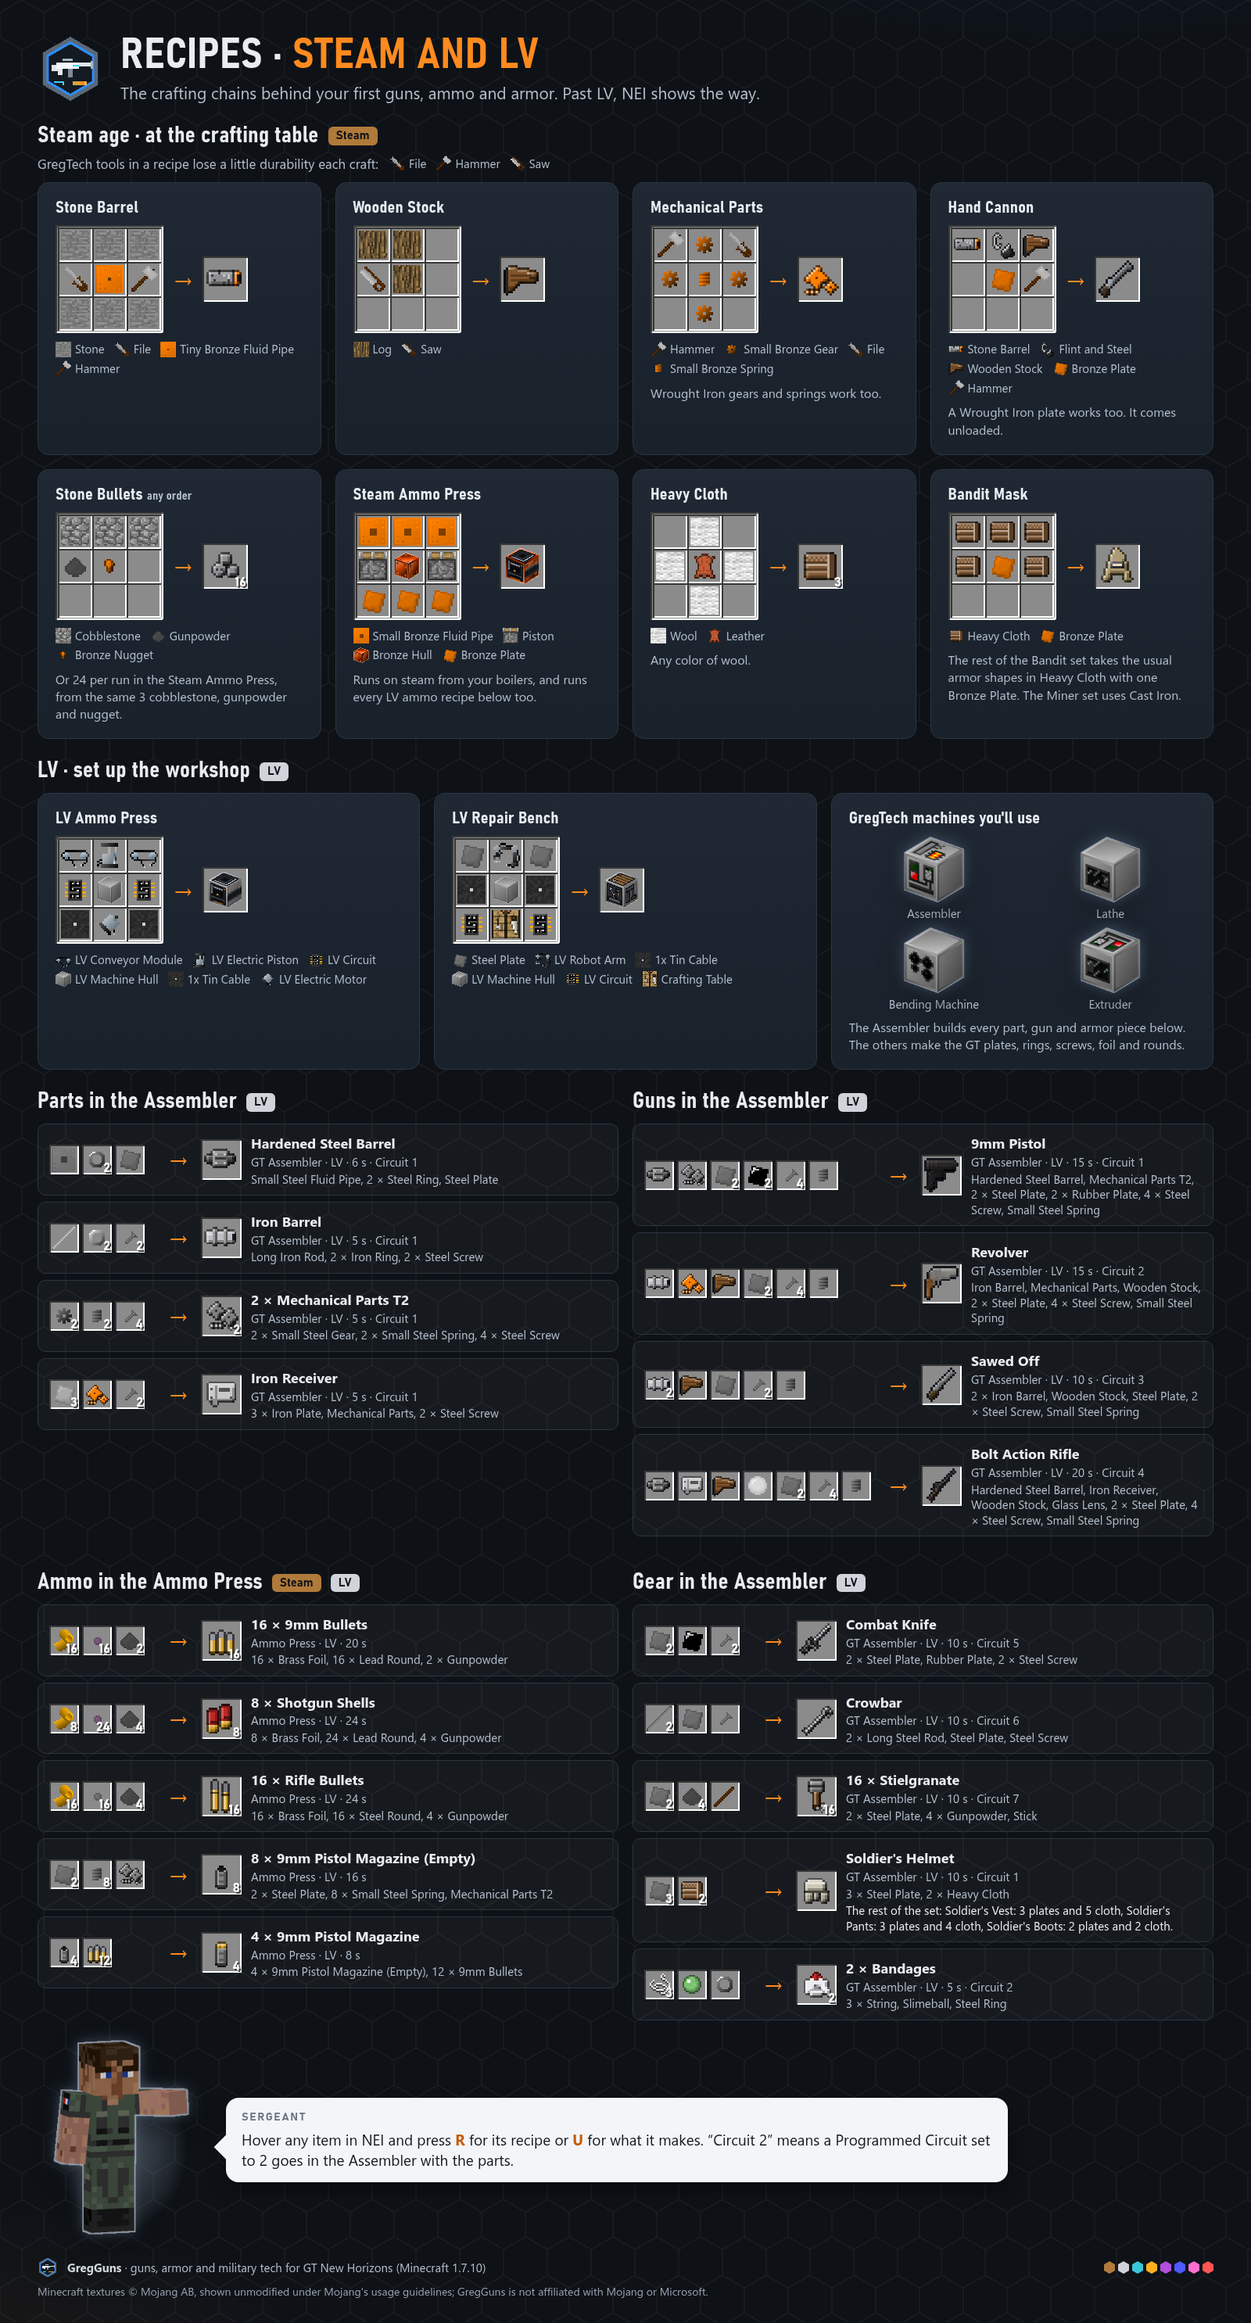
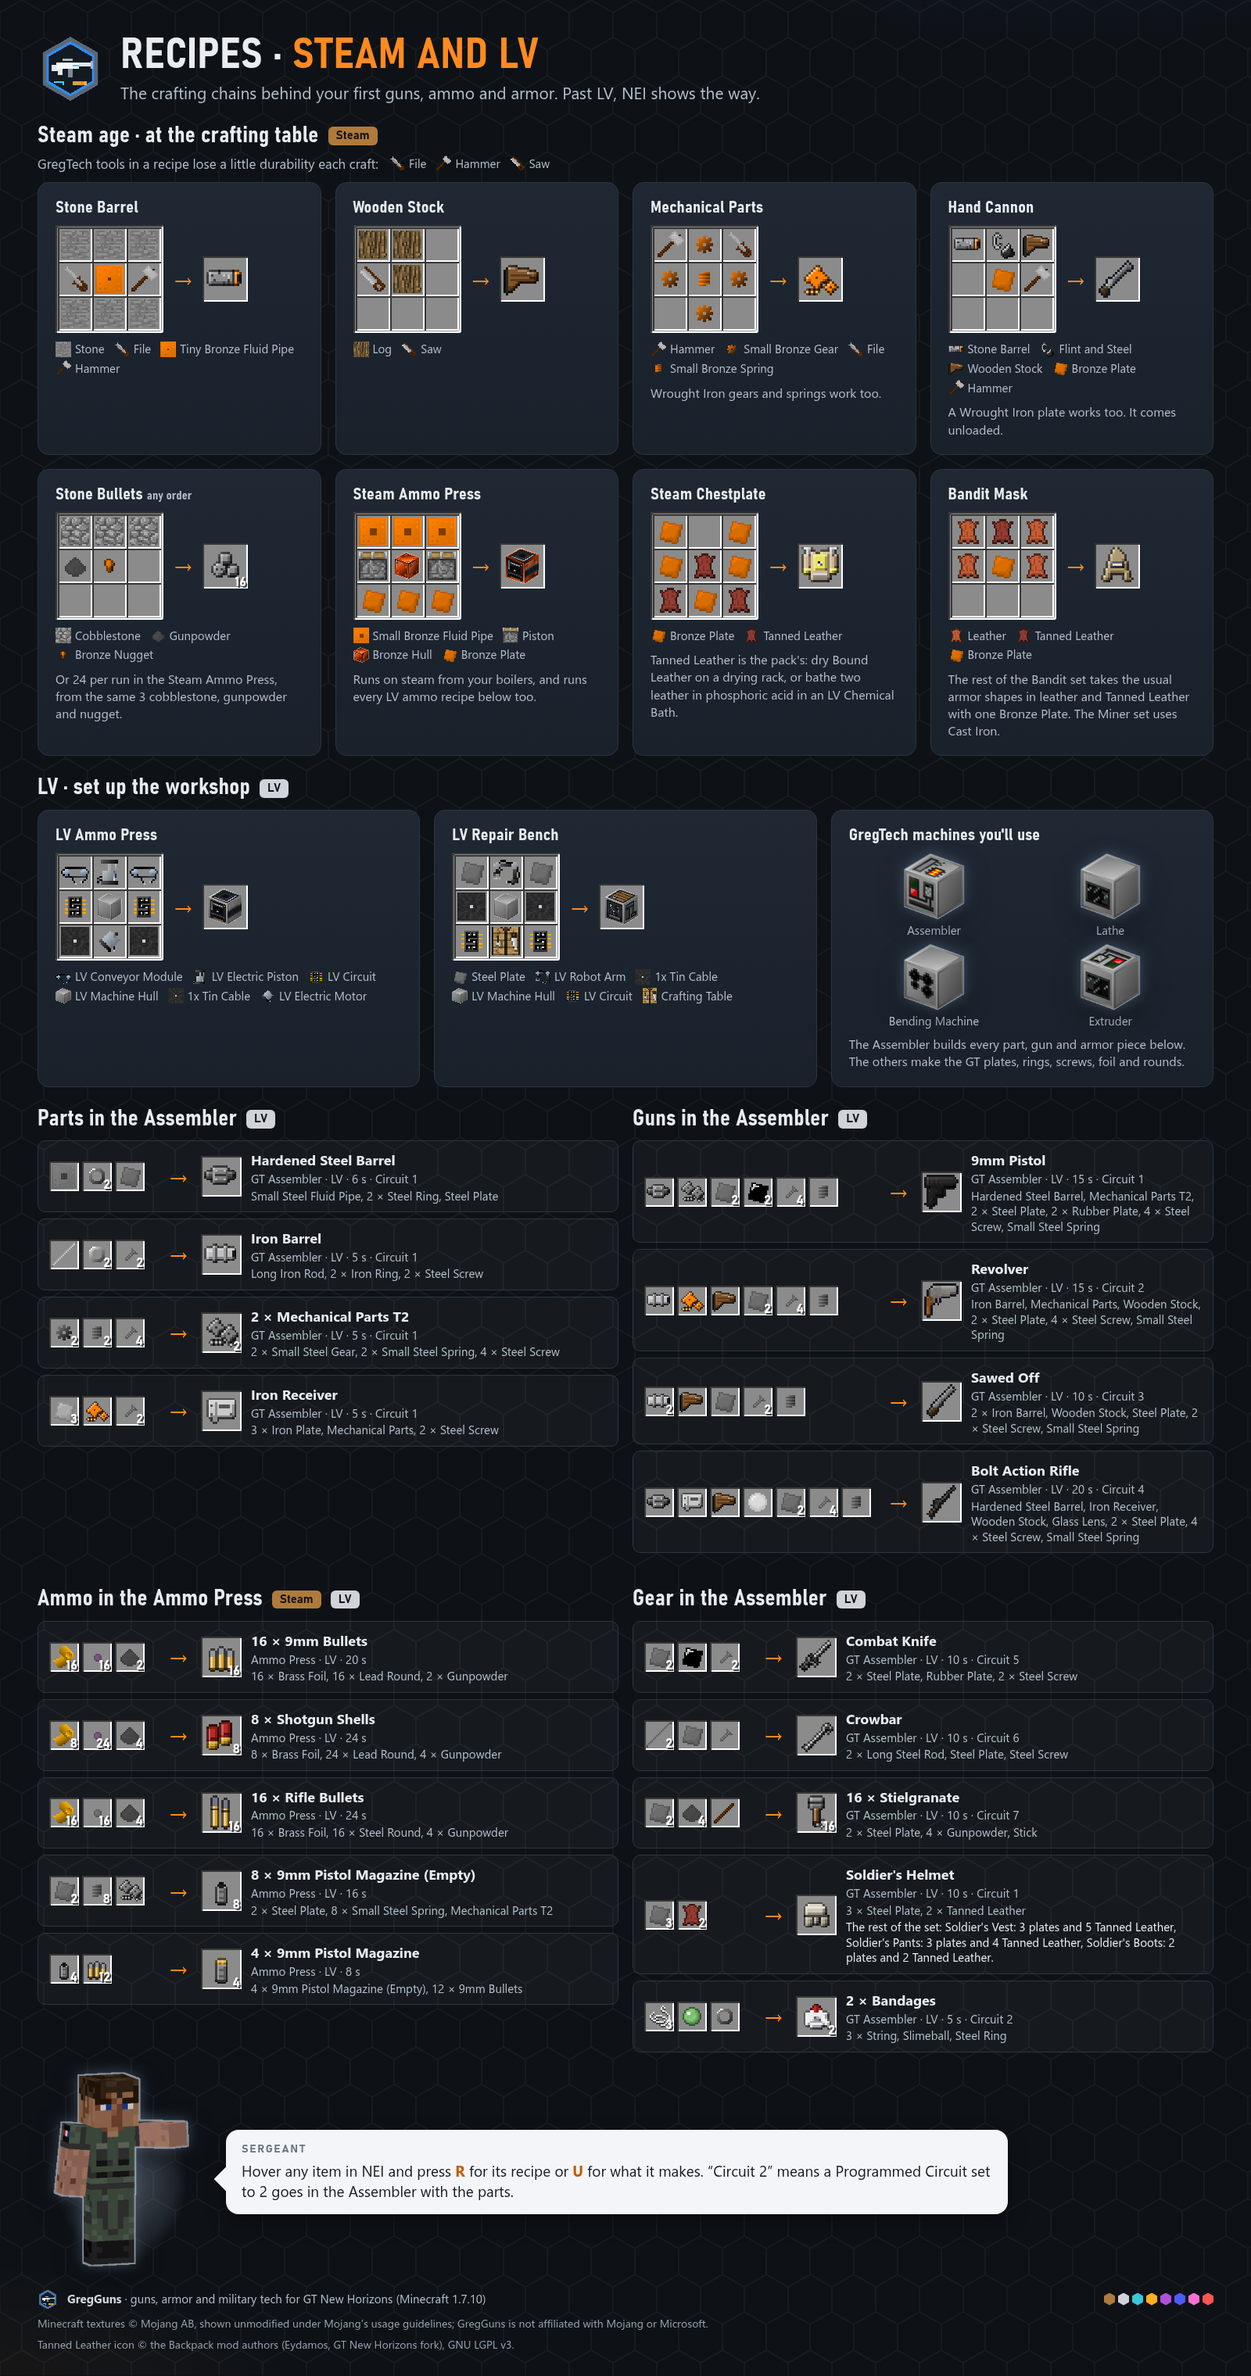
Guide sheets: Tanned Leather on the recipes and enemies sheets
The recipes sheet shows the Steam Chestplate in place of the Heavy Cloth card
and names Tanned Leather in the armor rows, with the Backpack mod's icon
(LGPL-3.0, credited); the enemies sheet lists it in the drops.

diff --git a/tools/asset-gen/infographics/pages_recipes.py b/tools/asset-gen/infographics/pages_recipes.py
@@ -15,6 +15,7 @@ from pathlib import Path
 import gt
 import kit as K
 import scenes as S
+import thirdparty as TP
 import vanilla as V
 from kit import chip, esc, url
 from pages import MOJANG_CREDIT, POINT, img, page_doc
@@ -52,6 +53,8 @@ VANILLA = {"cobblestone": ("cobblestone", "Cobblestone"), "stone": ("stone", "St
            "blockWool": ("wool", "Wool"), "leather": ("leather", "Leather"), "mc:string": ("string", "String"),
            "slimeball": ("slimeball", "Slimeball"), "flint_and_steel": ("flint_and_steel", "Flint and Steel"),
            "craftingPiston": ("piston", "Piston"), "crafting_table": ("crafting_table", "Crafting Table")}
+# Other mods' items the recipes name by id (ProductionTable.Input.external, hand keys item:<modid>:<name>).
+EXTERNAL = {"Backpack:tannedLeather": (TP.BACKPACK_TANNED_LEATHER, "Tanned Leather")}
 META = {"motor_lv": "LV Electric Motor", "conveyor_lv": "LV Conveyor Module", "piston_lv": "LV Electric Piston",
         "robot_arm_lv": "LV Robot Arm", "circuit_lv": "LV Circuit"}
 TOOLS = {"File": "File", "Hammer": "Hammer", "Saw": "Saw"}
@@ -82,8 +85,8 @@ def recipes_json() -> dict:
 
 
 def thing(key: str) -> tuple[Path, str]:
-    """An ingredient key as (icon, display name). Keys: gt:prefix:Material, mod:name, v:name, meta:name, tool:Kind,
-    hull:Tier, cable:Material, machine:name:Tier."""
+    """An ingredient key as (icon, display name). Keys: gt:prefix:Material, mod:name, v:name, x:modid:name (another
+    mod's item), meta:name, tool:Kind, hull:Tier, cable:Material, machine:name:Tier."""
     kind, _, rest = key.partition(":")
     if kind == "gt":
         prefix, mat = rest.split(":")
@@ -97,6 +100,14 @@ def thing(key: str) -> tuple[Path, str]:
     if kind == "v":
         name, label = VANILLA[rest]
         return V.icon(name), label
+    if kind == "x":
+        if rest in EXTERNAL:
+            return EXTERNAL[rest]
+        mod, _, name = rest.partition(":")
+        if mod == "minecraft":
+            name, label = VANILLA[name]
+            return V.icon(name), label
+        raise KeyError(key)
     if kind == "meta":
         return gt.metaitem(rest), META[rest]
     if kind == "tool":
@@ -118,6 +129,8 @@ def row_key(inp: dict) -> str:
     if inp["item"]:
         return f"mod:{inp['item']}"
     other = inp["special"] or inp["ore"]
+    if other.startswith("item:"):
+        return f"x:{other[5:]}"
     return f"v:{other}"
 
 
@@ -208,13 +221,14 @@ STEAM_CRAFTS = [
     dict(title="Steam Ammo Press", pattern=["XXX", "PMP", "BBB"],
          keys={"X": "gt:pipeSmall:Bronze", "P": "v:craftingPiston", "M": "hull:Steam", "B": "gt:plate:Bronze"},
          out="machine:ammo_press:Steam", note="Runs on steam from your boilers, and runs every LV ammo recipe below too."),
-    # ArmorParts.addRecipes (RC-21)
-    dict(title="Heavy Cloth", pattern=[" W ", "WLW", " W "], keys={"W": "v:blockWool", "L": "v:leather"},
-         out="mod:part_heavy_cloth", n=3, note="Any color of wool."),
+    # ArmorTable.STEAM (AR-35): the armor lining is the pack's Tanned Leather
+    dict(title="Steam Chestplate", pattern="hand:AR-35", out="mod:steam_chestplate",
+         note="Tanned Leather is the pack's: dry Bound Leather on a drying rack, or bathe two leather in phosphoric "
+              "acid in an LV Chemical Bath."),
     # ArmorTable.SCOUT (AR-01): the rest of the set follows the armor shapes
     dict(title="Bandit Mask", pattern="hand:AR-01", out="mod:t1_scout_helmet",
-         note="The rest of the Bandit set takes the usual armor shapes in Heavy Cloth with one Bronze Plate. "
-              "The Miner set uses Cast Iron."),
+         note="The rest of the Bandit set takes the usual armor shapes in leather and Tanned Leather with one Bronze "
+              "Plate. The Miner set uses Cast Iron."),
 ]
 
 LV_CRAFTS = [
@@ -238,6 +252,8 @@ def _hand(dump, rid, title, out, note):
         kind, _, name = v.partition(":")
         if kind == "mod":
             keys[ch] = f"mod:{name}"
+        elif kind == "item":
+            keys[ch] = f"x:{name}"
         else:
             m = re.match(r"(plate|nugget)([A-Z]\w+)", name)
             keys[ch] = f"gt:{m.group(1)}:{m.group(2)}" if m else f"v:{name}"
@@ -251,8 +267,8 @@ def recipes():
 
     steam = []
     for c in STEAM_CRAFTS:
-        if c["pattern"] == "hand:AR-01":
-            steam.append(_hand(dump, "AR-01", c["title"], c["out"], c["note"]))
+        if isinstance(c["pattern"], str) and c["pattern"].startswith("hand:"):
+            steam.append(_hand(dump, c["pattern"][5:], c["title"], c["out"], c["note"]))
             continue
         note = c.get("note", "").replace(
             "{press}", f"Or {press['count']} per run in the Steam Ammo Press, from the same "
@@ -276,7 +292,7 @@ def recipes():
     ammo = "".join(machine_row(rows[i], "Ammo Press") for i in ("RC-28", "RC-29", "RC-30", "RC-37", "RC-44"))
     combat = [rows[i] for i in ("AR-09", "AR-10", "AR-11", "AR-12")]
     rest = ", ".join(f"{NAMES.get(r['output'], r['output'])}: {r['inputs'][0]['count']} plates and "
-                     f"{r['inputs'][1]['count']} cloth" for r in combat[1:])
+                     f"{r['inputs'][1]['count']} Tanned Leather" for r in combat[1:])
     gear = "".join([machine_row(rows["GR-05"], asm), machine_row(rows["GR-06"], asm),
                     machine_row(rows["GR-07"], asm), machine_row(combat[0], asm, note=f"The rest of the set: {rest}."),
                     machine_row(rows["RC-61"], asm)])
@@ -295,7 +311,7 @@ def recipes():
 {_guide()}"""
     return page_doc("Recipes &middot; <b>Steam and LV</b>",
                     "The crafting chains behind your first guns, ammo and armor. Past LV, NEI shows the way.",
-                    body, extra=RECIPE_CSS, credit=MOJANG_CREDIT)
+                    body, extra=RECIPE_CSS, credit=[MOJANG_CREDIT, TP.BACKPACK_CREDIT])
 
 
 def _guide():

diff --git a/tools/asset-gen/infographics/thirdparty.py b/tools/asset-gen/infographics/thirdparty.py
@@ -1,7 +1,8 @@
 """Third-party art for the ICBM guide sheets: Galacticraft's launch pad and rocket parts (MIT, D85), the core mod's
 Tier 3 rocket parts (GPL-3.0, D86), the formed launch pad, and the tinted vanilla grass, leaves and logs the worldgen views need.
+Also the Backpack mod's Tanned Leather icon (LGPL-3.0), which the recipes sheet shows as an armor ingredient.
 
-The Galacticraft and core-mod files are read from inputs/thirdparty/ beside this script, never from a jar and never
+The Galacticraft, core-mod and Backpack files are read from inputs/thirdparty/ beside this script, never from a jar and never
 from src/main/resources, so the mod jar carries none of them. The grass and leaf textures are Mojang's, tinted green the way the game tints them (a derived render, noted in the sheet's credit).
 """
 
@@ -25,6 +26,7 @@ GC_ITEMS = INPUTS / "galacticraft"
 GC_PAD = INPUTS / "galacticraft/launch_pad.png"
 NHCORE = INPUTS / "nhcore"
 TCONSTRUCT_GLASS = INPUTS / "tconstruct/clear_glass.png"
+BACKPACK_TANNED_LEATHER = INPUTS / "backpack/tanned_leather.png"
 
 PAD_HEIGHT = 0.4   # the formed launch pad's top tier ends 0.4 of a block above the floor; a missile stands on it
 
@@ -32,6 +34,7 @@ GC_CREDIT = ("Launch pad and rocket part textures © Team Galacticraft (Galactic
 CORE_CREDIT = ("Heavy Duty Rocket Engine and Fins Tier 3 icons © NewHorizonsCoreMod contributors (GT New Horizons), "
                "GNU GPL v3. This sheet is a combined work and is released under the GPL-3.0.")
 TC_CREDIT = ("Clear Glass texture © the Tinkers' Construct authors (GT New Horizons fork), GNU LGPL v3.")
+BACKPACK_CREDIT = ("Tanned Leather icon \u00a9 the Backpack mod authors (Eydamos, GT New Horizons fork), GNU LGPL v3.")
 TINT_CREDIT = "Exception to the above: grass and leaves are Mojang's textures tinted green, as the game does."
 
 

diff --git a/docs/assets/CREDITS.md b/docs/assets/CREDITS.md
@@ -25,7 +25,7 @@
 | infographics/multiblock-rampart.png | Claude (Anthropic) via tools/asset-gen/infographics/build.py | HTML laid out in Python, PNG via Playwright + Edge; 3D renders of the mod's own models, textures and block layouts by tools/asset-gen/infographics/render3d.py; includes GregTech 5 Unofficial textures (hulls, hatches, frames, glass, material icons) read from the pack's GT jar | MIT, except the GregTech textures it shows (LGPL-3.0) | 2026-10-19 |
 | infographics/enemies.png | Claude (Anthropic) via tools/asset-gen/infographics/build.py | HTML laid out in Python, PNG via Playwright + Edge; 3D renders of the mod's own models, textures and block layouts by tools/asset-gen/infographics/render3d.py; includes GregTech 5 Unofficial textures (hulls, hatches, frames, glass, material icons) read from the pack's GT jar; the Skeleton Soldier's and Zombie Pigman Soldier's skins are Mojang's vanilla skeleton and zombie pigman textures, read unmodified from the vanilla 1.7.10 client jar at build time (not stored in the repo) and credited in the sheet footer | MIT, except the GregTech textures it shows (LGPL-3.0), and Mojang's Minecraft textures it shows (used under Mojang's usage guidelines) | 2026-10-25 |
 | infographics/questbook.png | Claude (Anthropic) via tools/asset-gen/infographics/build.py | HTML laid out in Python, PNG via Playwright + Edge; 3D renders of the mod's own models, textures and block layouts by tools/asset-gen/infographics/render3d.py; includes GregTech 5 Unofficial textures (hulls, hatches, frames, glass, material icons) read from the pack's GT jar | MIT, except the GregTech textures it shows (LGPL-3.0) | 2026-10-19 |
-| infographics/recipes-steam-and-lv.png | Claude (Anthropic) via tools/asset-gen/infographics/build.py | HTML laid out in Python, PNG via Playwright + Edge; 3D renders of the mod's own models, textures and block layouts by tools/asset-gen/infographics/render3d.py; includes GregTech 5 Unofficial textures (hulls, machine overlays, component and tool icons, material icons); vanilla ingredient icons are Mojang's textures, read unmodified from the vanilla 1.7.10 client jar at build time by tools/asset-gen/infographics/vanilla.py (not stored in the repo) and credited in the sheet footer | MIT, except the GregTech textures it shows (LGPL-3.0), and Mojang's Minecraft textures it shows (used under Mojang's usage guidelines) | 2026-10-25 |
+| infographics/recipes-steam-and-lv.png | Claude (Anthropic) via tools/asset-gen/infographics/build.py | HTML laid out in Python, PNG via Playwright + Edge; 3D renders of the mod's own models, textures and block layouts by tools/asset-gen/infographics/render3d.py; includes GregTech 5 Unofficial textures (hulls, machine overlays, component and tool icons, material icons); vanilla ingredient icons are Mojang's textures, read unmodified from the vanilla 1.7.10 client jar at build time by tools/asset-gen/infographics/vanilla.py (not stored in the repo) and credited in the sheet footer; the Backpack mod's Tanned Leather icon (tools/asset-gen/infographics/inputs/thirdparty/backpack/, LGPL-3.0), credited in the sheet footer | MIT, except the GregTech textures it shows (LGPL-3.0), the Backpack mod's Tanned Leather icon (LGPL-3.0), and Mojang's Minecraft textures it shows (used under Mojang's usage guidelines) | 2026-10-30 |
 | infographics/icbm-warheads.png | Claude (Anthropic) via tools/asset-gen/infographics/build.py (pages_icbm.py) | HTML laid out in Python, PNG via Playwright; 3D renders of the shipped warhead OBJ models (HBM's Nuclear Tech Mod contributors, LGPL-3.0, modified; see warhead_t1, warhead_t2, warhead_t3, warhead_exothermic, warhead_endothermic and warhead_nuclear above) by tools/asset-gen/infographics/render3d.py; includes GregTech 5 Unofficial textures (hulls, machine overlays, casings, plate icons) read from the pack's GT jar; the TNT, Flint and Steel and Fire Charge icons are the real Minecraft textures, read from the Minecraft 1.7.10 client jar at build time and never stored in the repo (D55); numbers read from the code (the Tier 3 and nuclear cards from D80 to D84 and WarheadRecipeSpec) | MIT, except the NTM warhead art it shows (LGPL-3.0, credited in its footer), the GregTech textures (LGPL-3.0) and the Minecraft textures (© Mojang / Microsoft, shown under Mojang's usage guidelines and credited in its footer) | 2026-10-26 |
 | infographics/icbm-first-missile.png | Claude (Anthropic) via tools/asset-gen/infographics/build.py (pages_icbm_missile.py) | HTML laid out in Python, PNG via Playwright; 3D renders of the shipped missile body and warhead OBJ models (HBM's Nuclear Tech Mod contributors, LGPL-3.0, modified; see missile_body_t1, missile_body_t2, warhead_t1 and warhead_t2 above) by tools/asset-gen/infographics/render3d.py; includes GregTech 5 Unofficial textures (hulls, machine overlays, plate icons) read from the pack's GT jar; Galacticraft Legacy's launch pad texture and compressed plate, rocket fin and engine icons from the thirdparty folder (D85); numbers read from the code | MIT, except the NTM warhead art it shows (LGPL-3.0, credited in its footer), the Galacticraft textures (MIT, credited in its footer) and the GregTech textures (LGPL-3.0) | 2026-10-26 |
 | infographics/icbm-missile-silo.png | Claude (Anthropic) via tools/asset-gen/infographics/build.py (pages_icbm_silo.py) | HTML laid out in Python, PNG via Playwright; 3D renders of the shipped missile body and warhead OBJ models standing in the silo (HBM's Nuclear Tech Mod contributors, LGPL-3.0, modified; see missile_body_t3 and warhead_t3 above) by tools/asset-gen/infographics/render3d.py; includes GregTech 5 Unofficial textures (hulls, machine overlays, plate icons) read from the pack's GT jar; the silo is drawn from the mod's own Gantry Casing and Gantry Beam art with Galacticraft Legacy's launch pad (MIT, D85) and the NewHorizonsCoreMod Heavy Duty Rocket Engine and Fins Tier 3 icons (GPL-3.0, D86); the ground, sand, logs, stone and dirt are the real Minecraft textures, grass and leaves tinted green as the game does, read from the Minecraft 1.7.10 client jar at build time and never stored in the repo (D55); numbers read from the code | **GPL-3.0** as a combined work with the NewHorizonsCoreMod icons it paints in (credited in its footer); its other parts keep their own licenses: our art MIT, the Galacticraft art MIT, the NTM art LGPL-3.0, the GregTech hatch overlays LGPL-3.0, the Minecraft textures © Mojang / Microsoft | 2026-10-26 |
@@ -141,6 +141,7 @@ Human-made files that are not ours, under CC0, CC-BY, MIT or LGPL (ICBM module; 
 | warhead_endothermic.obj (model) | src/main/resources/assets/gregguns/models/thirdparty/ntm/warhead_endothermic.obj | HBM's Nuclear Tech Mod contributors | https://github.com/HbmMods/Hbm-s-Nuclear-Tech-GIT/tree/1.0.27_X5846 (src/main/resources/assets/hbm/models/missile_parts/mp_w_15_n2.obj) | LGPL-3.0 (with the GPL-3.0 text beside it as GPL-3.0.txt) | yes: scaled x0.64; model recentered and rewritten as Forge-strict OBJ by tools/asset-gen/icbm/convert_ntm_warheads.py | 2026-10-27 |
 | warhead_endothermic.png (texture) | src/main/resources/assets/gregguns/textures/models/thirdparty/ntm/warhead_endothermic.png | HBM's Nuclear Tech Mod contributors | https://github.com/HbmMods/Hbm-s-Nuclear-Tech-GIT/tree/1.0.27_X5846 (src/main/resources/assets/hbm/textures/models/missile_parts/warheads/mp_w_15_n2.png) | LGPL-3.0 (with the GPL-3.0 text beside it as GPL-3.0.txt) | yes: the "N2" plate repeated three times around the barrel, 120 degrees apart, so the mark reads from every side (tools/asset-gen/icbm/paint_warhead_marks.py; the T3 endothermic warhead's skin, drawn on warhead_endothermic.obj; no "TNT" lettering) | 2026-10-27 |
 | clear_glass.png (block texture) | tools/asset-gen/infographics/inputs/thirdparty/tconstruct/clear_glass.png | Tinkers' Construct authors (GT New Horizons fork; commit authors UltraProdigy, Johann Bernhardt) | https://github.com/GTNewHorizons/TinkersConstruct/blob/1.14.118-GTNH/src/main/resources/assets/tinker/textures/blocks/glass/clear/glass.png (tag 1.14.118-GTNH) | LGPL-3.0 (text beside it as LICENSE.txt) | no (renamed only); used only in the Missile Silo guide sheet | 2026-10-27 |
+| tanned_leather.png (item texture) | tools/asset-gen/infographics/inputs/thirdparty/backpack/tanned_leather.png | Backpack mod authors (Eydamos; GT New Horizons fork, commit authors Eydamos, UltraProdigy) | https://github.com/GTNewHorizons/Minecraft-Backpack-Mod/blob/2.6.18-GTNH/src/main/resources/assets/backpack/textures/items/leatherTanned.png (tag 2.6.18-GTNH) | LGPL-3.0 (text beside it as LICENSE.txt) | no (renamed only); used only in the recipes guide sheet | 2026-10-30 |
 
 <!-- generated-credits:start -->
 
